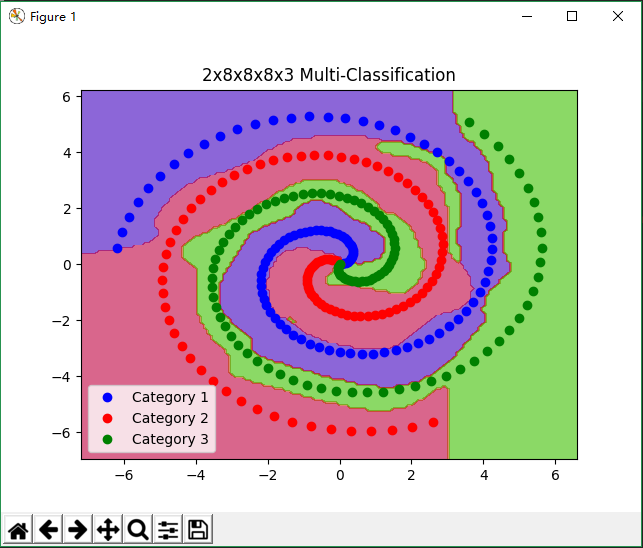
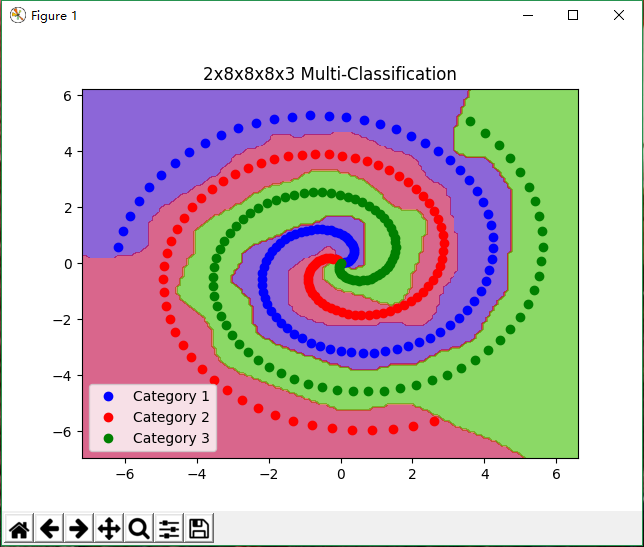
improve gradient descent algorithm, add consistent mode.

diff --git a/paradox/kernel/optimizer.py b/paradox/kernel/optimizer.py
@@ -13,22 +13,25 @@ class Optimizer:
 
 
 class GradientDescentOptimizer(Optimizer):
-    def __init__(self, rate: float):
+    def __init__(self, rate: float, consistent: bool=False):
         self.__rate = rate
+        self.__consistent = consistent
         self.__gradient_engine = Engine()
 
-    def minimize(self, engine: Engine):
+    def optimize(self, engine: Engine, calculate_function):
         variables = engine.variables
         for variable in variables:
+            value_buffer = self.__gradient_engine.value_buffer
             self.__gradient_engine.symbol = engine.gradient(variable)
             self.__gradient_engine.bind = engine.bind
-            variable.value -= self.__rate * self.__gradient_engine.value()
+            if self.__consistent:
+                self.__gradient_engine.value_buffer = value_buffer
+            variable.value = calculate_function(variable.value, self.__rate * self.__gradient_engine.value())
             engine.modified()
+        self.__gradient_engine.value_buffer = {}
+
+    def minimize(self, engine: Engine):
+        self.optimize(engine, lambda v, g: v - g)
 
     def maximize(self, engine: Engine):
-        variables = engine.variables
-        for variable in variables:
-            self.__gradient_engine.symbol(engine.gradient(variable))
-            self.__gradient_engine.bind = engine.bind
-            variable.value += self.__rate * self.__gradient_engine.value()
-            engine.modified()
+        self.optimize(engine, lambda v, g: v + g)

diff --git a/examples/2x8x8x8x3_multi_classification.py b/examples/2x8x8x8x3_multi_classification.py
@@ -17,21 +17,21 @@ classification = [0] * len(data[0][0]) + [1] * len(data[1][0]) + [2] * len(data[
 
 # 调用高层API生成2x8x8x8x3的网络
 model = pd.nn.Network()
-model.add(pd.nn.Dense(8, input_dimension=2))  # 2维输入8维输出的全连接层。
+model.add(pd.nn.Dense(16, input_dimension=2))  # 2维输入8维输出的全连接层。
 model.add(pd.nn.Activation('tanh'))  # 使用tanh激活函数。
-model.add(pd.nn.Dense(8))
+model.add(pd.nn.Dense(16))
 model.add(pd.nn.Activation('tanh'))
-model.add(pd.nn.Dense(8))
+model.add(pd.nn.Dense(16))
 model.add(pd.nn.Activation('tanh'))
 model.add(pd.nn.Dense(3))
 model.add(pd.nn.Activation('tanh'))
 model.loss('softmax')  # 使用softmax loss。
 
 # 使用梯度下降优化器。
-model.optimizer('gd', rate=0.0002)
+model.optimizer('gd', rate=0.0002, consistent=True)
 
 # 执行训练。
-model.train([c_x, c_y], classification, epochs=20000)
+model.train([c_x, c_y], classification, epochs=50000)
 
 # 设置网格密度为0.1。
 h = 0.1

diff --git a/paradox/kernel/engine.py b/paradox/kernel/engine.py
@@ -63,6 +63,14 @@ class Engine:
 
     bind = property(get_bind, set_bind)
 
+    def get_value_buffer(self):
+        return self.__value_buffer
+
+    def set_value_buffer(self, value_buffer: dict):
+        self.__value_buffer = value_buffer
+
+    value_buffer = property(get_value_buffer, set_value_buffer)
+
     def modified(self):
         self.__value_buffer = {}
 

diff --git a/paradox/neural_network/convolutional_neural_network/calculate.py b/paradox/neural_network/convolutional_neural_network/calculate.py
@@ -67,3 +67,6 @@ def convolution_2d(data, kernel, mode=ConvolutionMode.full):
             raise ValueError('Never reached.')
     else:
         raise ValueError('These shapes can not execute convolve-2d: {} {}'.format(data.shape, kernel.shape))
+
+# TODO: Make these function treat tensor compute.
+# TODO: Add convolution_3d.
